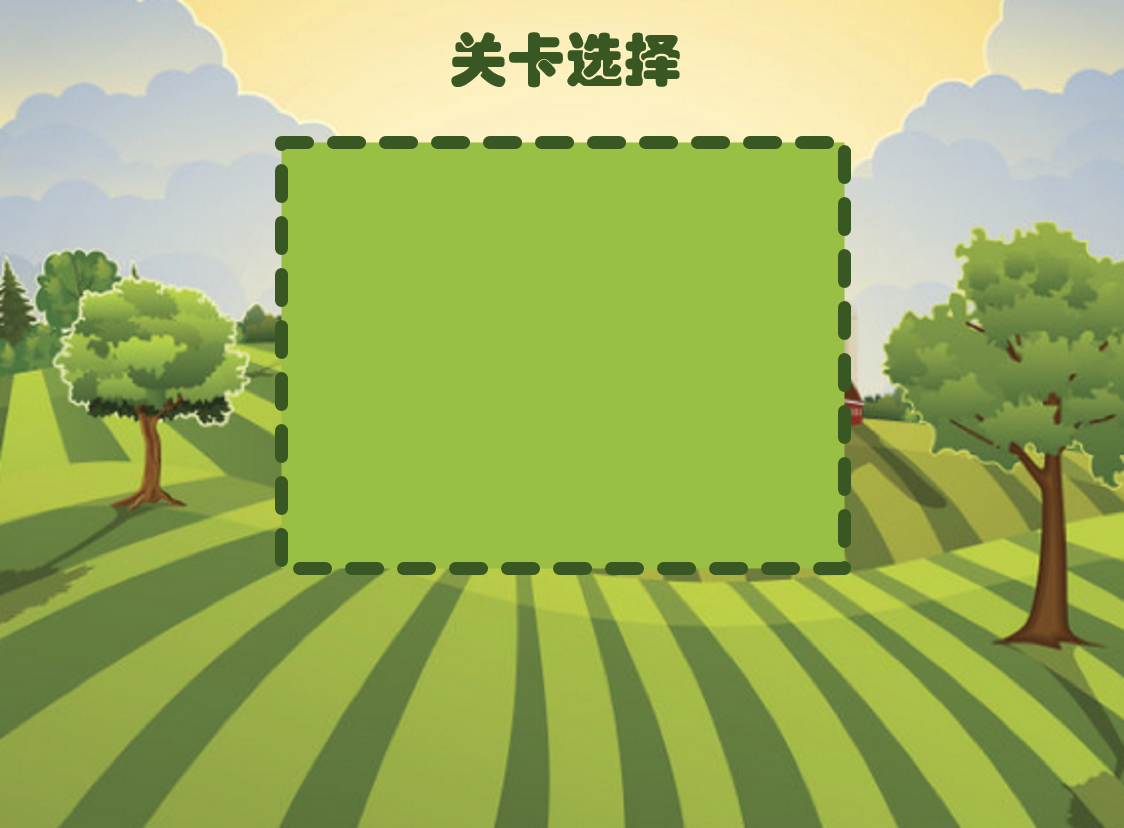
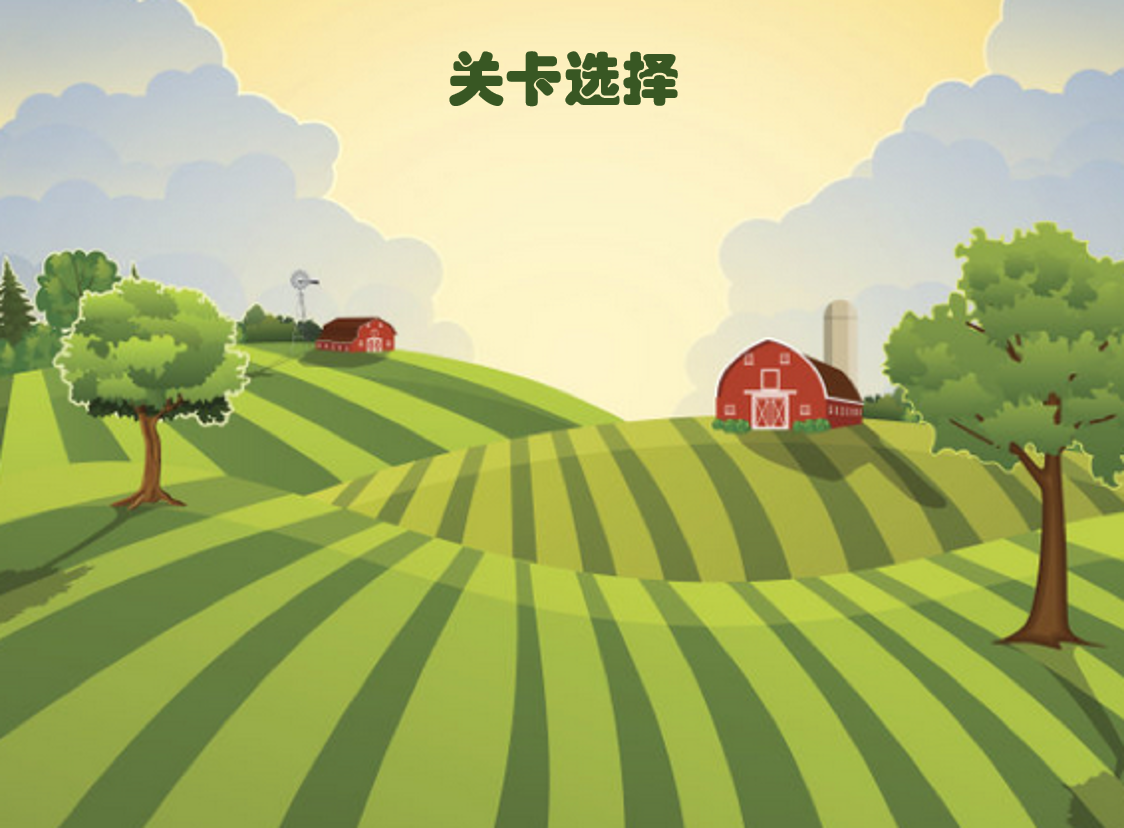
Complete StagePanel

Changed region(s): [[0.218, 0.0302, 0.7785, 0.6944]]

diff --git a/src/ui/StagePanel.java b/src/ui/StagePanel.java
@@ -29,6 +29,12 @@ public class StagePanel extends JPanel implements GameConstants {
 
 	private ImageIcon stageBackgroundIcon;
 	private JLabel stageBackgroundLabel;
+	
+	private ImageIcon thumbnailBackgroundIcon;
+	private JLabel thumbnailBackgroundLabel;
+	
+	private ImageIcon storyIcon;
+	private JLabel storyLabel;
 
 	private int[][] wallMatrix = new int[CELL_NUM_X][CELL_NUM_Y];
 	private int gameMode;
@@ -52,8 +58,8 @@ public class StagePanel extends JPanel implements GameConstants {
 	private ImageIcon buttonBackwardOnIcon;
 	private JLabel buttonBackwardLabel;
 	
-	private final static int tinyCellWidth = THUMBNAIL_WIDTH / CELL_NUM_X;
-	private final static int tinyCellHeight = THUMBNAIL_HEIGHT / CELL_NUM_Y;
+	private final static int tinyCellWidth =SCALED_THUMBNAIL_WIDTH/ CELL_NUM_X;
+	private final static int tinyCellHeight =SCALED_THUMBNAIL_HEIGHT/ CELL_NUM_Y;
 	private Map map;
 	private BufferedImage mapImage[] = new BufferedImage[4];
 	private BufferedImage wallImage[][] = new BufferedImage[4][8];
@@ -68,11 +74,18 @@ public class StagePanel extends JPanel implements GameConstants {
 
 		this.addThumbnail(stageNumber);
 		this.addButton();
+		this.addStory(stageNumber);
 		this.addBackground();
 	}
 
 	public void addBackground() {
-		stageBackgroundIcon = new ImageIcon("image/background/chooseStagePanel.png");// Background image
+		thumbnailBackgroundIcon = new ImageIcon("image/background/thumbnailBackground.png");
+		thumbnailBackgroundIcon.setImage(thumbnailBackgroundIcon.getImage().getScaledInstance(THUMBNAIL_WIDTH, THUMBNAIL_HEIGHT, 1));
+		thumbnailBackgroundLabel = new JLabel(thumbnailBackgroundIcon);
+		thumbnailBackgroundLabel.setBounds(WINDOW_WIDTH/2-THUMBNAIL_WIDTH/2, 130, THUMBNAIL_WIDTH, THUMBNAIL_HEIGHT);
+		this.add(thumbnailBackgroundLabel);
+		
+		stageBackgroundIcon = new ImageIcon("image/background/chooseStagePanel.png");
 		stageBackgroundIcon.setImage(stageBackgroundIcon.getImage().getScaledInstance(WINDOW_WIDTH, WINDOW_HEIGHT, 1));
 		stageBackgroundLabel = new JLabel(stageBackgroundIcon);
 		stageBackgroundLabel.setBounds(0, 0, WINDOW_WIDTH, WINDOW_HEIGHT);
@@ -82,25 +95,25 @@ public class StagePanel extends JPanel implements GameConstants {
 	public void addButton() {
 		// back
 		buttonBackOffIcon = new ImageIcon("image/buttons/back_off.png");
-		buttonBackOffIcon.setImage(buttonBackOffIcon.getImage().getScaledInstance(BUTTON_WIDTH, BUTTON_HEIGHT, 1));
+		buttonBackOffIcon.setImage(buttonBackOffIcon.getImage().getScaledInstance(SCALED_BUTTON_WIDTH, SCALED_BUTTON_HEIGHT, 1));
 
 		buttonBackOnIcon = new ImageIcon("image/buttons/back_on.png");
-		buttonBackOnIcon.setImage(buttonBackOnIcon.getImage().getScaledInstance(BUTTON_WIDTH, BUTTON_HEIGHT, 1));
+		buttonBackOnIcon.setImage(buttonBackOnIcon.getImage().getScaledInstance(SCALED_BUTTON_WIDTH, SCALED_BUTTON_HEIGHT, 1));
 
 		buttonBackLabel = new JLabel(buttonBackOffIcon);
-		buttonBackLabel.setBounds(0, 620, BUTTON_WIDTH, BUTTON_HEIGHT);
+		buttonBackLabel.setBounds(0, 650, SCALED_BUTTON_WIDTH, SCALED_BUTTON_HEIGHT);
 		this.add(buttonBackLabel);
 
 		// confirm
 		buttonConfirmOffIcon = new ImageIcon("image/buttons/confirm_off.png");
 		buttonConfirmOffIcon
-				.setImage(buttonConfirmOffIcon.getImage().getScaledInstance(BUTTON_WIDTH, BUTTON_HEIGHT, 1));
+				.setImage(buttonConfirmOffIcon.getImage().getScaledInstance(SCALED_BUTTON_WIDTH, SCALED_BUTTON_HEIGHT, 1));
 
 		buttonConfirmOnIcon = new ImageIcon("image/buttons/confirm_on.png");
-		buttonConfirmOnIcon.setImage(buttonConfirmOnIcon.getImage().getScaledInstance(BUTTON_WIDTH, BUTTON_HEIGHT, 1));
+		buttonConfirmOnIcon.setImage(buttonConfirmOnIcon.getImage().getScaledInstance(SCALED_BUTTON_WIDTH, SCALED_BUTTON_HEIGHT, 1));
 
 		buttonConfirmLabel = new JLabel(buttonConfirmOffIcon);
-		buttonConfirmLabel.setBounds(670, 620, BUTTON_WIDTH, BUTTON_HEIGHT);
+		buttonConfirmLabel.setBounds(760, 650,SCALED_BUTTON_WIDTH, SCALED_BUTTON_HEIGHT);
 		this.add(buttonConfirmLabel);
 
 		// forward
@@ -131,10 +144,18 @@ public class StagePanel extends JPanel implements GameConstants {
 		buttonForwardLabel.addMouseListener(new ButtonListener(mainFrame, "forward"));
 		buttonBackwardLabel.addMouseListener(new ButtonListener(mainFrame, "backward"));
 	}
-
+	
+	public void addStory(int stageNumber) {
+		storyIcon = new ImageIcon("image/background/story"+stageNumber+".png");
+		storyIcon.setImage(storyIcon.getImage().getScaledInstance(STORY_WIDTH, STORY_HEIGHT, 1));
+		storyLabel = new JLabel(storyIcon);
+		storyLabel.setBounds(WINDOW_WIDTH/2-STORY_WIDTH/2, 560, STORY_WIDTH, STORY_HEIGHT);
+		this.add(storyLabel);
+	}
+	
 	public void addThumbnail(int stageNumber) {
 		thumbnailLabel = new ThumbnailLabel(stageNumber);
-		thumbnailLabel.setBounds(200, 200, THUMBNAIL_WIDTH, THUMBNAIL_HEIGHT);
+		thumbnailLabel.setBounds(WINDOW_WIDTH/2-SCALED_THUMBNAIL_WIDTH/2, 130+10, SCALED_THUMBNAIL_WIDTH,SCALED_THUMBNAIL_HEIGHT);
 		this.add(thumbnailLabel);
 	}
 
@@ -212,10 +233,11 @@ public class StagePanel extends JPanel implements GameConstants {
 
 		@Override
 		public void mousePressed(MouseEvent e) {
+			
+			
 			switch (this.name) {
 			case "back":
 				ChoosePlayerPanel choosePlayerPanel = new ChoosePlayerPanel(mainFrame, gameMode);
-
 				JPanel mainPanel = (JPanel) mainFrame.getContentPane();
 				mainPanel.removeAll();
 
@@ -231,10 +253,40 @@ public class StagePanel extends JPanel implements GameConstants {
 				generateStage(stageNumber);
 				break;
 			case "forward":
-				// TODO
+				stageNumber=stageNumber+1;
+				if (stageNumber>3){
+					stageNumber=stageNumber-4;
+				}
+				
+				StagePanel.this.removeAll();
+							
+				thumbnailLabel = new ThumbnailLabel(stageNumber);
+				thumbnailLabel.setBounds(WINDOW_WIDTH/2-SCALED_THUMBNAIL_WIDTH/2, 130+10, SCALED_THUMBNAIL_WIDTH,SCALED_THUMBNAIL_HEIGHT);
+				StagePanel.this.add(thumbnailLabel);
+				thumbnailLabel.setVisible(true);
+				StagePanel.this.addButton();
+				StagePanel.this.addStory(stageNumber);
+				StagePanel.this.addBackground();
+				StagePanel.this.revalidate();
+				StagePanel.this.repaint();
 				break;
 			case "backward":
+				stageNumber=stageNumber-1;
+				if (stageNumber<0){
+					stageNumber=stageNumber+4;
+				}
+				
+				StagePanel.this.removeAll();
 
+				thumbnailLabel = new ThumbnailLabel(stageNumber);
+				thumbnailLabel.setBounds(WINDOW_WIDTH/2-SCALED_THUMBNAIL_WIDTH/2, 130+10, SCALED_THUMBNAIL_WIDTH,SCALED_THUMBNAIL_HEIGHT);
+				StagePanel.this.add(thumbnailLabel);
+				thumbnailLabel.setVisible(true);
+				StagePanel.this.addButton();
+				StagePanel.this.addStory(stageNumber);
+				StagePanel.this.addBackground();
+				StagePanel.this.revalidate();
+				StagePanel.this.repaint();
 				break;
 
 			}

diff --git a/src/ui/ChoosePlayerPanel.java b/src/ui/ChoosePlayerPanel.java
@@ -5,21 +5,13 @@ import java.awt.event.AWTEventListener;
 import java.awt.event.KeyEvent;
 import java.awt.event.MouseEvent;
 import java.awt.event.MouseListener;
-import java.awt.geom.RoundRectangle2D;
 import java.awt.image.BufferedImage;
-import java.io.BufferedReader;
 import java.io.File;
-import java.io.FileReader;
 import java.io.IOException;
-
 import javax.imageio.ImageIO;
 import javax.swing.*;
-import javax.swing.border.Border;
 
-import game.Game;
 import game.GameConstants;
-import game.TimerListener;
-import ui.MenuPanel.ButtonListener;
 
 /**
  * Main menu panel. Fill in the MainFrame. Contain buttons to jump to other
@@ -29,8 +21,6 @@ import ui.MenuPanel.ButtonListener;
  * @version 0.9
  */
 public class ChoosePlayerPanel extends JPanel implements AWTEventListener, GameConstants {
-	private MainFrame mainFrame;
-
 	private ImageIcon ChoosePlayerBackgroundIcon;
 	private ImageIcon p1Icon;
 	private ImageIcon p2Icon;
@@ -67,7 +57,6 @@ public class ChoosePlayerPanel extends JPanel implements AWTEventListener, GameC
 	private JLabel buttonConfirmLabel;
 
 	public ChoosePlayerPanel(MainFrame mainFrame, int gamemode) {
-		this.mainFrame = mainFrame;
 		this.gameMode = gamemode;
 
 		this.setLayout(null);
@@ -84,8 +73,8 @@ public class ChoosePlayerPanel extends JPanel implements AWTEventListener, GameC
 		}
 
 		this.getToolkit().addAWTEventListener(this, AWTEvent.KEY_EVENT_MASK);
-		buttonBackLabel.addMouseListener(new ButtonListener(mainFrame,"back"));
-		buttonConfirmLabel.addMouseListener(new ButtonListener(mainFrame,"confirm"));
+		buttonBackLabel.addMouseListener(new ButtonListener(mainFrame, "back"));
+		buttonConfirmLabel.addMouseListener(new ButtonListener(mainFrame, "confirm"));
 	}
 
 	public void addBackground() {
@@ -149,24 +138,27 @@ public class ChoosePlayerPanel extends JPanel implements AWTEventListener, GameC
 	 */
 	public void addButton() {
 		buttonBackOffIcon = new ImageIcon("image/buttons/back_off.png");
-		buttonBackOffIcon.setImage(buttonBackOffIcon.getImage().getScaledInstance(BUTTON_WIDTH, BUTTON_HEIGHT, 1));
+		buttonBackOffIcon
+				.setImage(buttonBackOffIcon.getImage().getScaledInstance(SCALED_BUTTON_WIDTH, SCALED_BUTTON_HEIGHT, 1));
 
 		buttonBackOnIcon = new ImageIcon("image/buttons/back_on.png");
-		buttonBackOnIcon.setImage(buttonBackOnIcon.getImage().getScaledInstance(BUTTON_WIDTH, BUTTON_HEIGHT, 1));
+		buttonBackOnIcon
+				.setImage(buttonBackOnIcon.getImage().getScaledInstance(SCALED_BUTTON_WIDTH, SCALED_BUTTON_HEIGHT, 1));
 
 		buttonBackLabel = new JLabel(buttonBackOffIcon);
-		buttonBackLabel.setBounds(0, 620, BUTTON_WIDTH, BUTTON_HEIGHT);
+		buttonBackLabel.setBounds(0, 650, SCALED_BUTTON_WIDTH, SCALED_BUTTON_HEIGHT);
 		this.add(buttonBackLabel);
 
 		buttonConfirmOffIcon = new ImageIcon("image/buttons/confirm_off.png");
-		buttonConfirmOffIcon
-				.setImage(buttonConfirmOffIcon.getImage().getScaledInstance(BUTTON_WIDTH, BUTTON_HEIGHT, 1));
+		buttonConfirmOffIcon.setImage(
+				buttonConfirmOffIcon.getImage().getScaledInstance(SCALED_BUTTON_WIDTH, SCALED_BUTTON_HEIGHT, 1));
 
 		buttonConfirmOnIcon = new ImageIcon("image/buttons/confirm_on.png");
-		buttonConfirmOnIcon.setImage(buttonConfirmOnIcon.getImage().getScaledInstance(BUTTON_WIDTH, BUTTON_HEIGHT, 1));
+		buttonConfirmOnIcon.setImage(
+				buttonConfirmOnIcon.getImage().getScaledInstance(SCALED_BUTTON_WIDTH, SCALED_BUTTON_HEIGHT, 1));
 
 		buttonConfirmLabel = new JLabel(buttonConfirmOffIcon);
-		buttonConfirmLabel.setBounds(670, 620, BUTTON_WIDTH, BUTTON_HEIGHT);
+		buttonConfirmLabel.setBounds(760, 650, SCALED_BUTTON_WIDTH, SCALED_BUTTON_HEIGHT);
 		this.add(buttonConfirmLabel);
 
 	}

diff --git a/src/ui/HelpPanel.java b/src/ui/HelpPanel.java
@@ -32,13 +32,13 @@ public class HelpPanel extends JPanel implements GameConstants {
 
 	public void addButton() {
 		buttonOffIcon = new ImageIcon("image/buttons/back_off.png");
-		buttonOffIcon.setImage(buttonOffIcon.getImage().getScaledInstance((int) (0.7*BUTTON_WIDTH), (int) (0.7*BUTTON_HEIGHT), 1));
+		buttonOffIcon.setImage(buttonOffIcon.getImage().getScaledInstance(SCALED_BUTTON_WIDTH, SCALED_BUTTON_HEIGHT, 1));
 
 		buttonOnIcon = new ImageIcon("image/buttons/back_on.png");
-		buttonOnIcon.setImage(buttonOnIcon.getImage().getScaledInstance((int) (0.7*BUTTON_WIDTH), (int) (0.7*BUTTON_HEIGHT), 1));
+		buttonOnIcon.setImage(buttonOnIcon.getImage().getScaledInstance(SCALED_BUTTON_WIDTH, SCALED_BUTTON_HEIGHT, 1));
 
 		buttonLabel = new JLabel(buttonOffIcon);
-		buttonLabel.setBounds(WINDOW_WIDTH - 195, WINDOW_HEIGHT-71, (int) (0.7*BUTTON_WIDTH), (int) (0.7*BUTTON_HEIGHT));
+		buttonLabel.setBounds(WINDOW_WIDTH - 195, WINDOW_HEIGHT-71, SCALED_BUTTON_WIDTH, SCALED_BUTTON_HEIGHT);
 		this.add(buttonLabel);
 	}
 

diff --git a/src/game/GameConstants.java b/src/game/GameConstants.java
@@ -92,8 +92,10 @@ public interface GameConstants {
 
 
 	// For thumbnail panel
-	int THUMBNAIL_WIDTH=300;
-	int THUMBNAIL_HEIGHT=300;
+	int THUMBNAIL_WIDTH=420;
+	int THUMBNAIL_HEIGHT=420;
+	int SCALED_THUMBNAIL_WIDTH=400;
+	int SCALED_THUMBNAIL_HEIGHT=400;
 
 
 	// For map image
@@ -138,6 +140,10 @@ public interface GameConstants {
 	// For Buttons
 	int BUTTON_WIDTH=280;
 	int BUTTON_HEIGHT=113;
+	int SCALED_BUTTON_WIDTH=196;
+	int SCALED_BUTTON_HEIGHT=79;
+	int STORY_WIDTH=520;
+	int STORY_HEIGHT=135;
 	int ARROW_WIDTH=100;
 	int ARROW_HEIGHT=213;
 }
